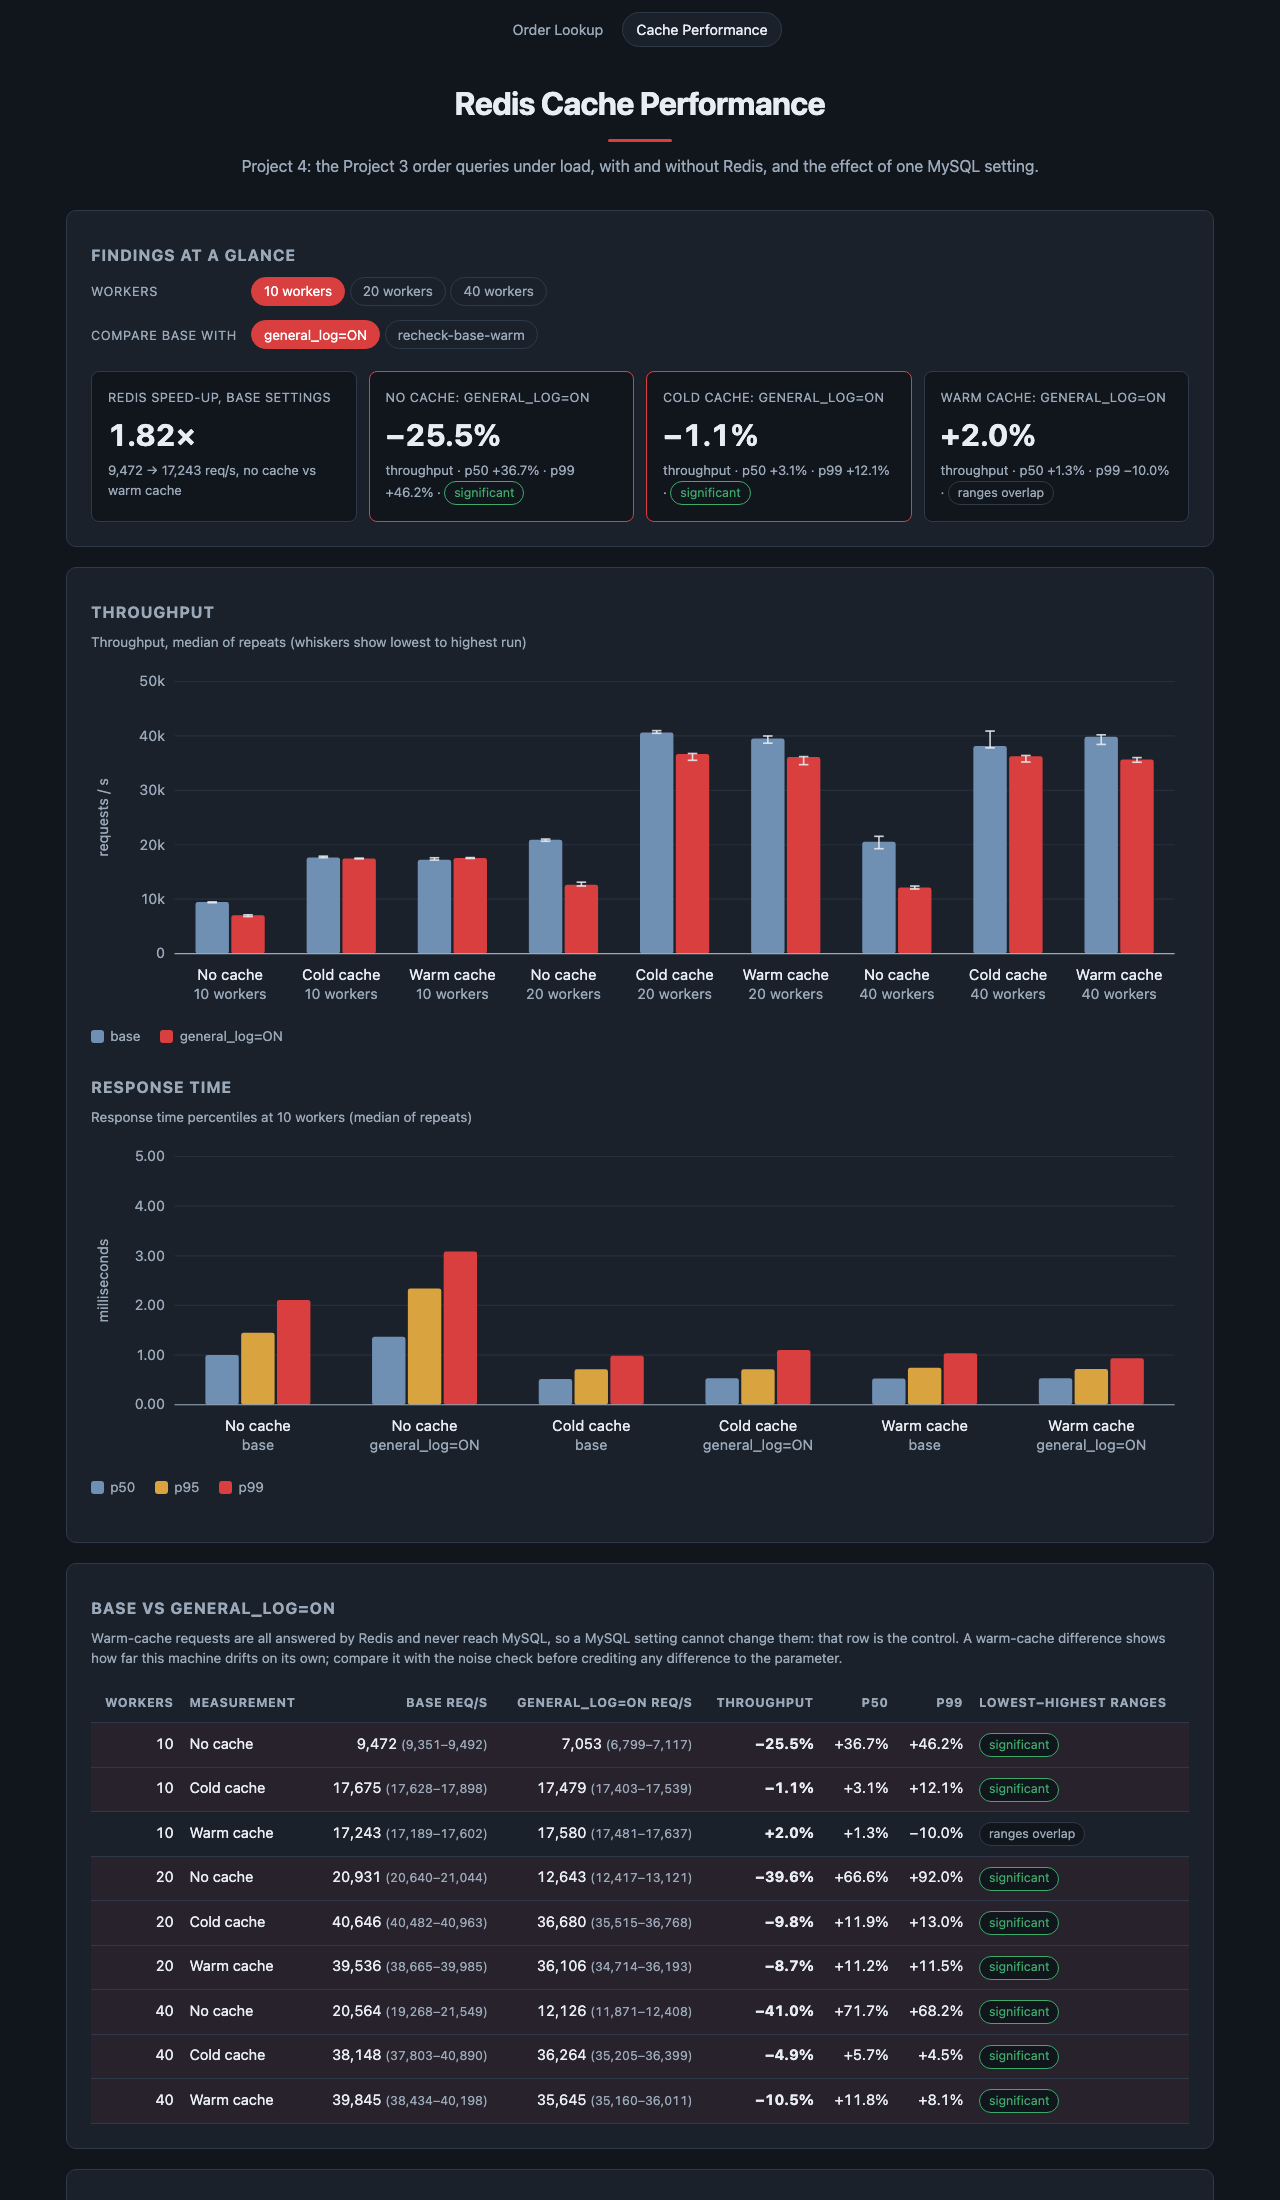
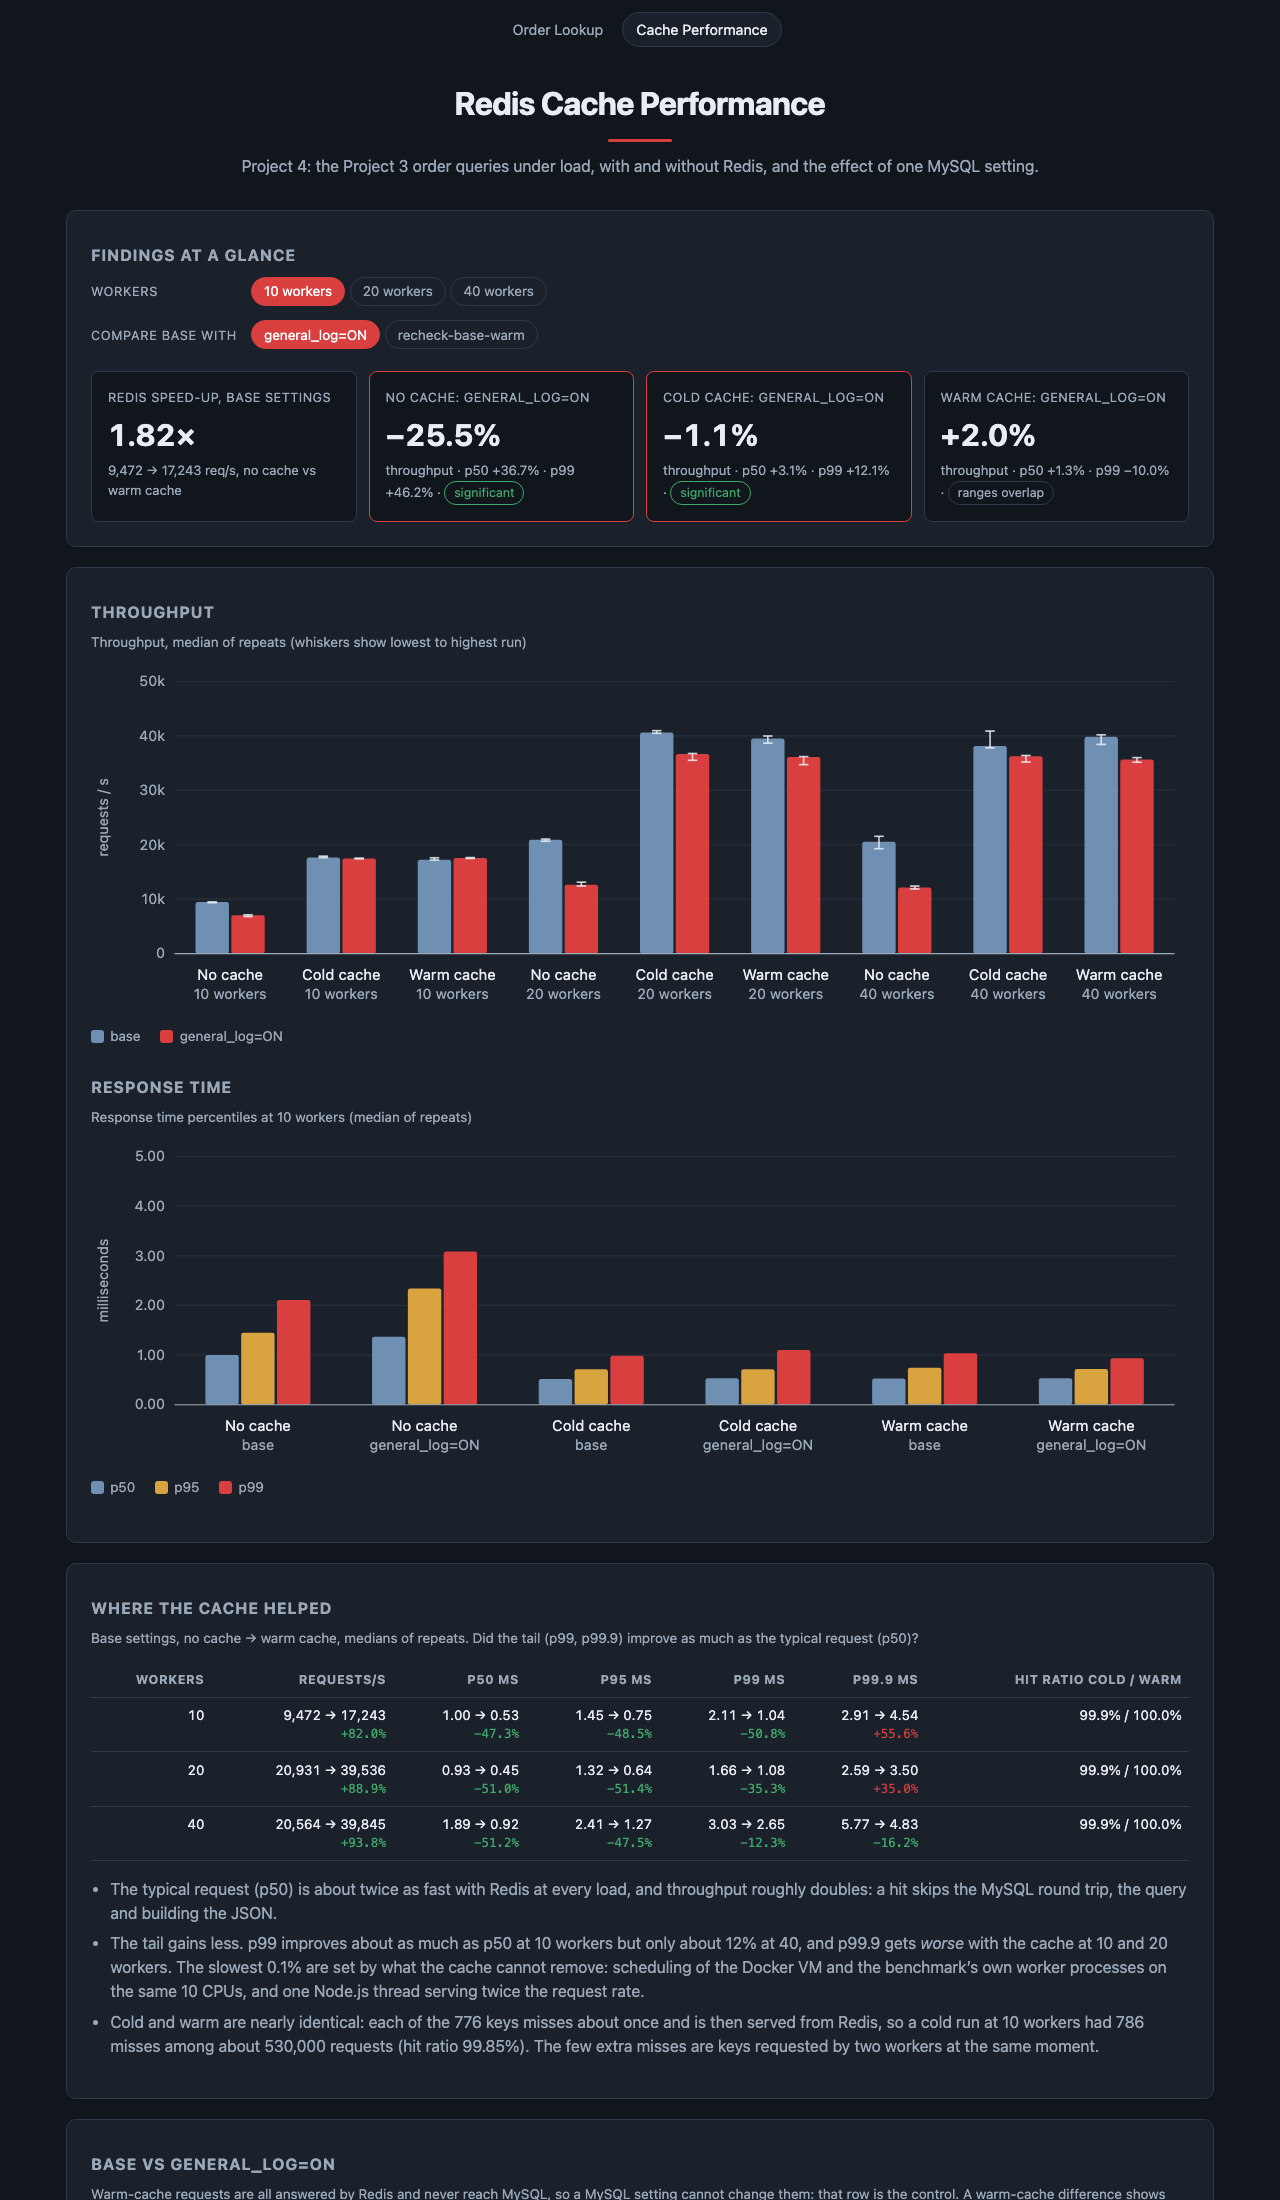
Add a cache-effect table answering where Redis helped and whether the tail improved
Generated with [Devin](https://devin.ai)

Changed region(s): [[0.0625, 0.7109, 0.9062, 1.0]]

diff --git a/app/lib/performance-view.js b/app/lib/performance-view.js
@@ -111,6 +111,40 @@ function latencyChart(r) {
   });
 }
 
+const PERCENTILES = ['p50', 'p95', 'p99', 'p99.9'];
+
+function cacheEffectSection(r) {
+  const rows = r.workers.map((w) => {
+    const off = r.group(r.baseline, w, 'off');
+    const cold = r.group(r.baseline, w, 'cold');
+    const warm = r.group(r.baseline, w, 'warm');
+    if (!off || !warm) return '';
+    const change = (metric) => ((warm[metric].median - off[metric].median) / off[metric].median) * 100;
+    const cell = (metric, f) => `<td class="num">${f(off[metric].median)} &rarr; ${f(warm[metric].median)}<span class="code ${change(metric) > 0 === (metric === 'throughput') ? 'good' : 'worse'}">${signed(change(metric))}</span></td>`;
+    return `<tr>
+  <td class="num">${w}</td>
+  ${cell('throughput', rps)}
+  ${PERCENTILES.map((p) => cell(p, ms)).join('')}
+  <td class="num nowrap">${cold ? pct(cold.hit_ratio.median) : '&mdash;'} / ${pct(warm.hit_ratio.median)}</td>
+</tr>`;
+  }).join('');
+
+  if (!rows.trim()) return '';
+  return `<section class="card">
+  <h2>Where the cache helped</h2>
+  <p class="hint">Base settings, no cache &rarr; warm cache, medians of repeats. Did the tail (p99, p99.9) improve as much as the typical request (p50)?</p>
+  <div class="table-scroll"><table class="table table-compact">
+    <thead><tr><th class="num">Workers</th><th class="num">Requests/s</th>${PERCENTILES.map((p) => `<th class="num">${p} ms</th>`).join('')}<th class="num">Hit ratio cold / warm</th></tr></thead>
+    <tbody>${rows}</tbody>
+  </table></div>
+  <ul class="method">
+    <li>The typical request (p50) is about twice as fast with Redis at every load, and throughput roughly doubles: a hit skips the MySQL round trip, the query and building the JSON.</li>
+    <li>The tail gains less. p99 improves about as much as p50 at 10 workers but only about 12% at 40, and p99.9 gets <em>worse</em> with the cache at 10 and 20 workers. The slowest 0.1% are set by what the cache cannot remove: scheduling of the Docker VM and the benchmark&rsquo;s own worker processes on the same 10 CPUs, and one Node.js thread serving twice the request rate.</li>
+    <li>Cold and warm are nearly identical: each of the 776 keys misses about once and is then served from Redis, so a cold run at 10 workers had 786 misses among about 530,000 requests (hit ratio 99.85%). The few extra misses are keys requested by two workers at the same moment.</li>
+  </ul>
+</section>`;
+}
+
 function comparisonTable(r) {
   if (!r.comparisons.length) return '<p class="empty">Run a second label to compare it with the base tests.</p>';
   const rows = r.comparisons.map((c) => `<tr${c.significant ? ' class="row-strong"' : ''}>
@@ -377,6 +411,8 @@ ${empty ? '<section class="card"><p class="empty">No benchmark results yet.</p><
   <h2>Response time</h2>
   ${latencyChart(r)}
 </section>
+
+${cacheEffectSection(r)}
 
 <section class="card">
   <h2>${escape(r.baseline)} vs ${escape(r.compareLabel || '')}</h2>

diff --git a/app/public/css/app.css b/app/public/css/app.css
@@ -403,6 +403,8 @@ input:focus, select:focus {
 .table-compact th, .table-compact td { padding: 0.45rem 0.45rem; }
 .table .range { color: var(--text-muted); font-size: 0.78rem; white-space: nowrap; }
 .table .bad { color: var(--accent); font-weight: 700; }
+.table .code.good { color: var(--ok); }
+.table .code.worse { color: var(--accent); }
 .table tr.row-strong td { background: rgba(217, 63, 63, 0.07); }
 .nowrap { white-space: nowrap; }
 
